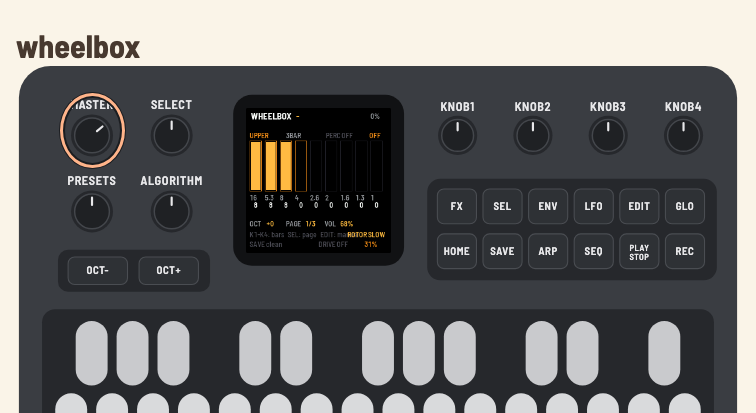
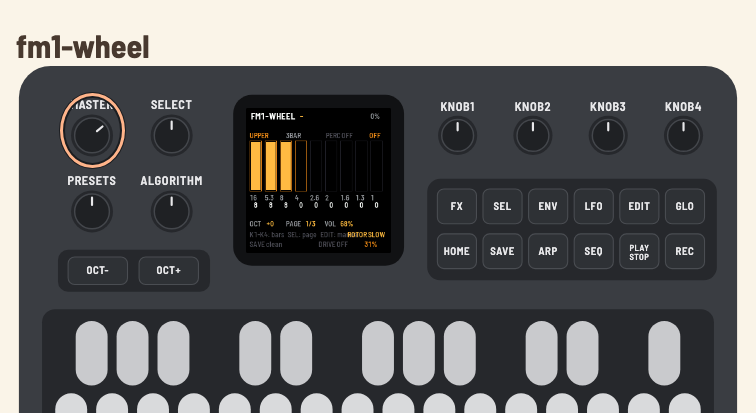
Rename the project to fm1-wheel

Changed region(s): [[0.0, 0.0872, 0.213, 0.1453], [0.3347, 0.2615, 0.3955, 0.2906]]

diff --git a/app/app.h b/app/app.h
@@ -1,13 +1,13 @@
 /* SPDX-License-Identifier: MPL-2.0
  * Copyright (C) 2026 Charles Vestal
  * Copyright (C) 2026 Rafael */
-/* WheelBox: the app's half of the fm1-base contract. Phase 1: the tone
+/* fm1-wheel: the app's half of the fm1-base contract. Phase 1: the tone
  * generator is live; the full drawbar/MIDI UI comes in Phase 3. */
 #pragma once
 #include <stdint.h>
 #include "plat.h"
 
-#define APP_NAME "WHEELBOX"
+#define APP_NAME "FM1-WHEEL"
 #define APP_SPLASH_RGB RGB(242, 120, 72)
 #define APP_BLOCK 128u                   /* 2.9 ms at 44.1 kHz: organ key latency */
 

diff --git a/app/app.c b/app/app.c
@@ -1,6 +1,6 @@
 /* SPDX-License-Identifier: GPL-3.0-or-later
  * Copyright (C) 2026 Rafael
- * WheelBox: FM-1 tonewheel organ app. Phase 1: the setBfree-derived tone
+ * fm1-wheel: FM-1 tonewheel organ app. Phase 1: the setBfree-derived tone
  * generator is live; this UI is a working drawbar page, not the final one.
  * The small text/note helpers are adapted from fm1-base's template app.c
  * (MPL-2.0, Copyright (C) 2026 Charles Vestal). */

diff --git a/tools/mid2organ.py b/tools/mid2organ.py
@@ -1,6 +1,6 @@
 #!/usr/bin/env python3
 # SPDX-License-Identifier: GPL-3.0-or-later
-"""Isolate the organ tracks of a MIDI file and render them through WheelBox.
+"""Isolate the organ tracks of a MIDI file and render them through fm1-wheel.
 
 The renderer is tools/organ-test/render, the same engine the app/emulator use.
 The selected tracks are merged into one performance (upper manual, with notes

diff --git a/app/dsp/vibrato.h b/app/dsp/vibrato.h
@@ -1,5 +1,5 @@
 /* SPDX-License-Identifier: GPL-3.0-or-later
- * WheelBox scanner vibrato/chorus: a float port of setBfree's src/vibrato.c
+ * fm1-wheel scanner vibrato/chorus: a float port of setBfree's src/vibrato.c
  * (GPL-2.0-or-later, Copyright (C) 2003-2004 Fredrik Kilander, 2008-2018
  * Robin Gareus). The tables are built at init with fastmath's fm_sinf. */
 #pragma once

diff --git a/tools/setbfree-host/refrender.c b/tools/setbfree-host/refrender.c
@@ -1,5 +1,5 @@
 /* SPDX-License-Identifier: GPL-2.0-or-later
- * Reference renderer for WheelBox: the unmodified setBfree DSP (tonegen,
+ * Reference renderer for fm1-wheel: the unmodified setBfree DSP (tonegen,
  * scanner, preamp, reverb, Leslie) driven by a small text script.
  *
  * This is the "golden" side of the A/B tests. It is a host tool, not firmware.

diff --git a/tools/setbfree-host/dump_tables.c b/tools/setbfree-host/dump_tables.c
@@ -1,5 +1,5 @@
 /* SPDX-License-Identifier: GPL-2.0-or-later
- * Dump the tables the WheelBox firmware needs from the unmodified setBfree
+ * Dump the tables the fm1-wheel firmware needs from the unmodified setBfree
  * tone generator: wheel frequencies/attenuations, the key-contact matrix,
  * the key-compression curve and the click envelopes.
  *

diff --git a/app/dsp/organ.h b/app/dsp/organ.h
@@ -1,5 +1,5 @@
 /* SPDX-License-Identifier: GPL-3.0-or-later
- * WheelBox organ engine: a port of setBfree's tone generator (GPL-2.0-or-later)
+ * fm1-wheel organ engine: a port of setBfree's tone generator (GPL-2.0-or-later)
  * to phase-accumulator sine wheels. One instance, called from the audio block.
  *
  * Keys are setBfree's key numbers:

diff --git a/tools/setbfree-host/dump_whirl.c b/tools/setbfree-host/dump_whirl.c
@@ -1,5 +1,5 @@
 /* SPDX-License-Identifier: GPL-2.0-or-later
- * Host-only dumper for the WheelBox Leslie: initializes setBfree's whirl at
+ * Host-only dumper for the fm1-wheel Leslie: initializes setBfree's whirl at
  * 1,024 displacement positions and writes the static tables the firmware
  * needs. Not firmware. */
 #include <stdio.h>

diff --git a/app/dsp/leslie.h b/app/dsp/leslie.h
@@ -1,5 +1,5 @@
 /* SPDX-License-Identifier: GPL-3.0-or-later
- * WheelBox Leslie, after setBfree's b_whirl (GPL-2.0-or-later).
+ * fm1-wheel Leslie, after setBfree's b_whirl (GPL-2.0-or-later).
  * Tables: whirl_tables.h, generated at 1,024 displacement positions.
  * Static state in .pool; float-only runtime. */
 #pragma once

diff --git a/app/dsp/preamp.c b/app/dsp/preamp.c
@@ -1,5 +1,5 @@
 /* SPDX-License-Identifier: GPL-3.0-or-later
- * WheelBox preamp/overdrive, after setBfree's b_overdrive/overdrive.c
+ * fm1-wheel preamp/overdrive, after setBfree's b_overdrive/overdrive.c
  * Copyright (C) 2003-2004 Fredrik Kilander, 2008-2018 Robin Gareus,
  * 2012 Will Panther. GPL-2.0-or-later.
  *

diff --git a/tools/organ-test/render.c b/tools/organ-test/render.c
@@ -1,5 +1,5 @@
 /* SPDX-License-Identifier: GPL-3.0-or-later
- * Host renderer for the WheelBox organ engine. Same event format as
+ * Host renderer for the fm1-wheel organ engine. Same event format as
  * tools/setbfree-host/refrender (the subset the dry engine implements).
  *
  * Build: make -C tools/organ-test

diff --git a/app/dsp/preamp.h b/app/dsp/preamp.h
@@ -1,5 +1,5 @@
 /* SPDX-License-Identifier: GPL-3.0-or-later
- * WheelBox preamp/overdrive, after setBfree's b_overdrive/overdrive.c
+ * fm1-wheel preamp/overdrive, after setBfree's b_overdrive/overdrive.c
  * (GPL-2.0-or-later). Static instance, no config/MIDI registration, no libm. */
 #pragma once
 
